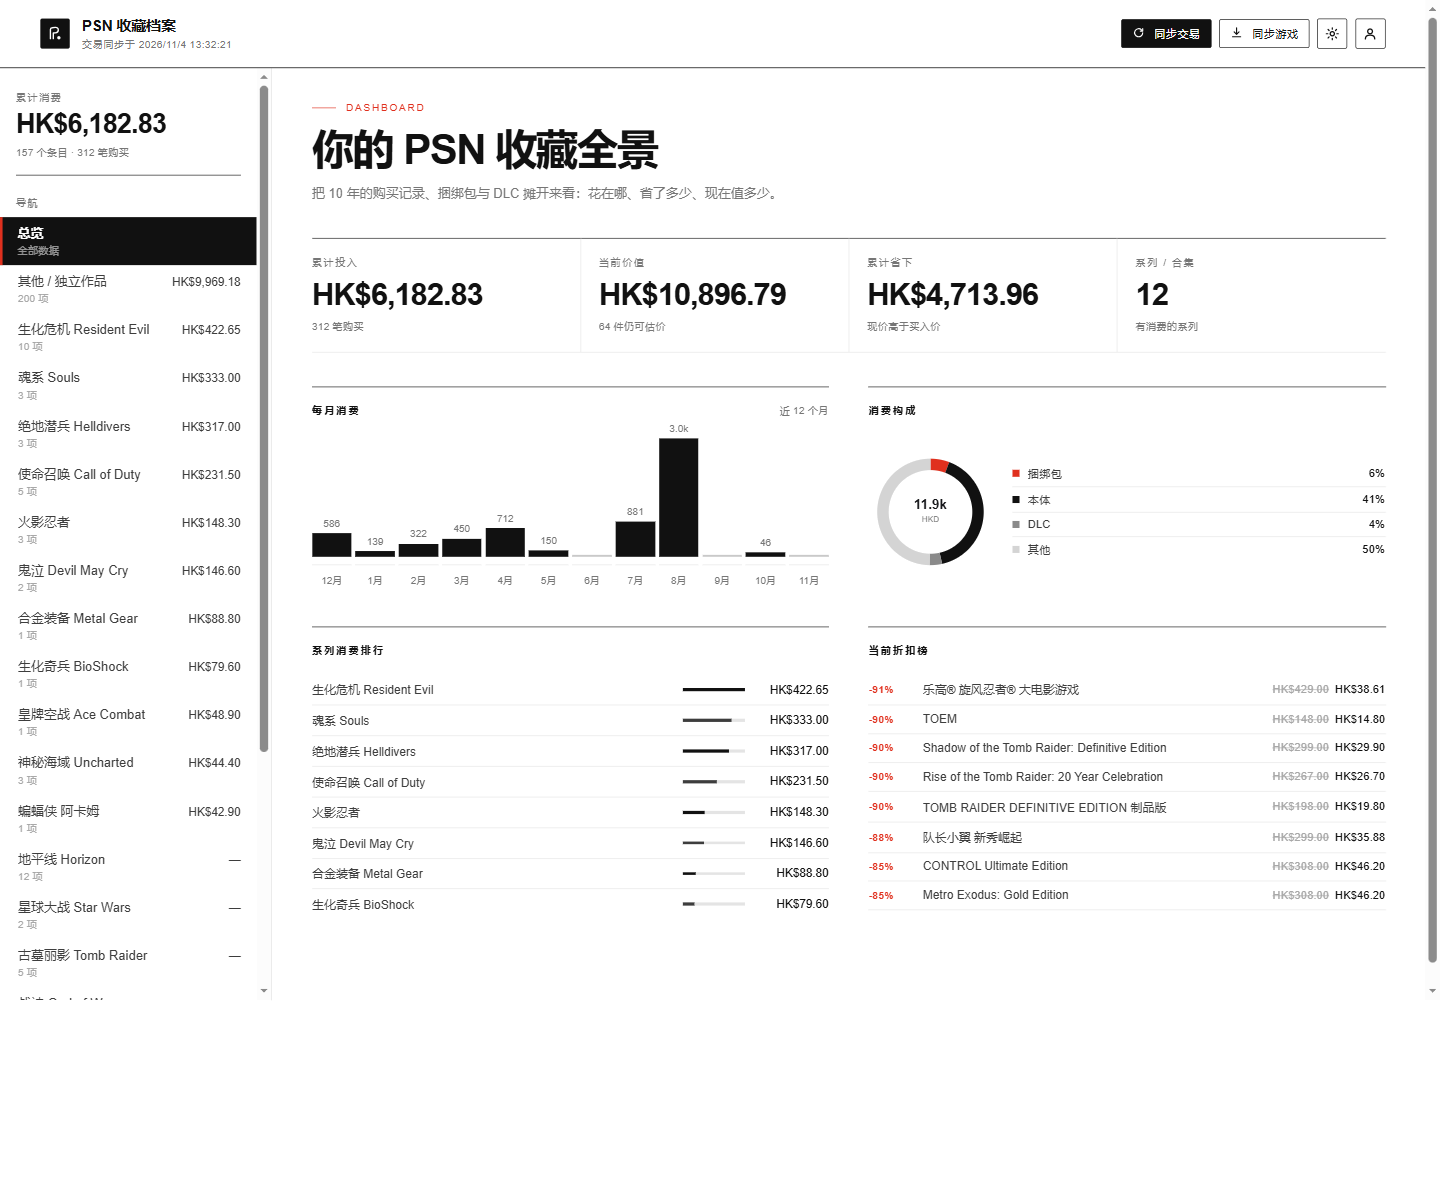
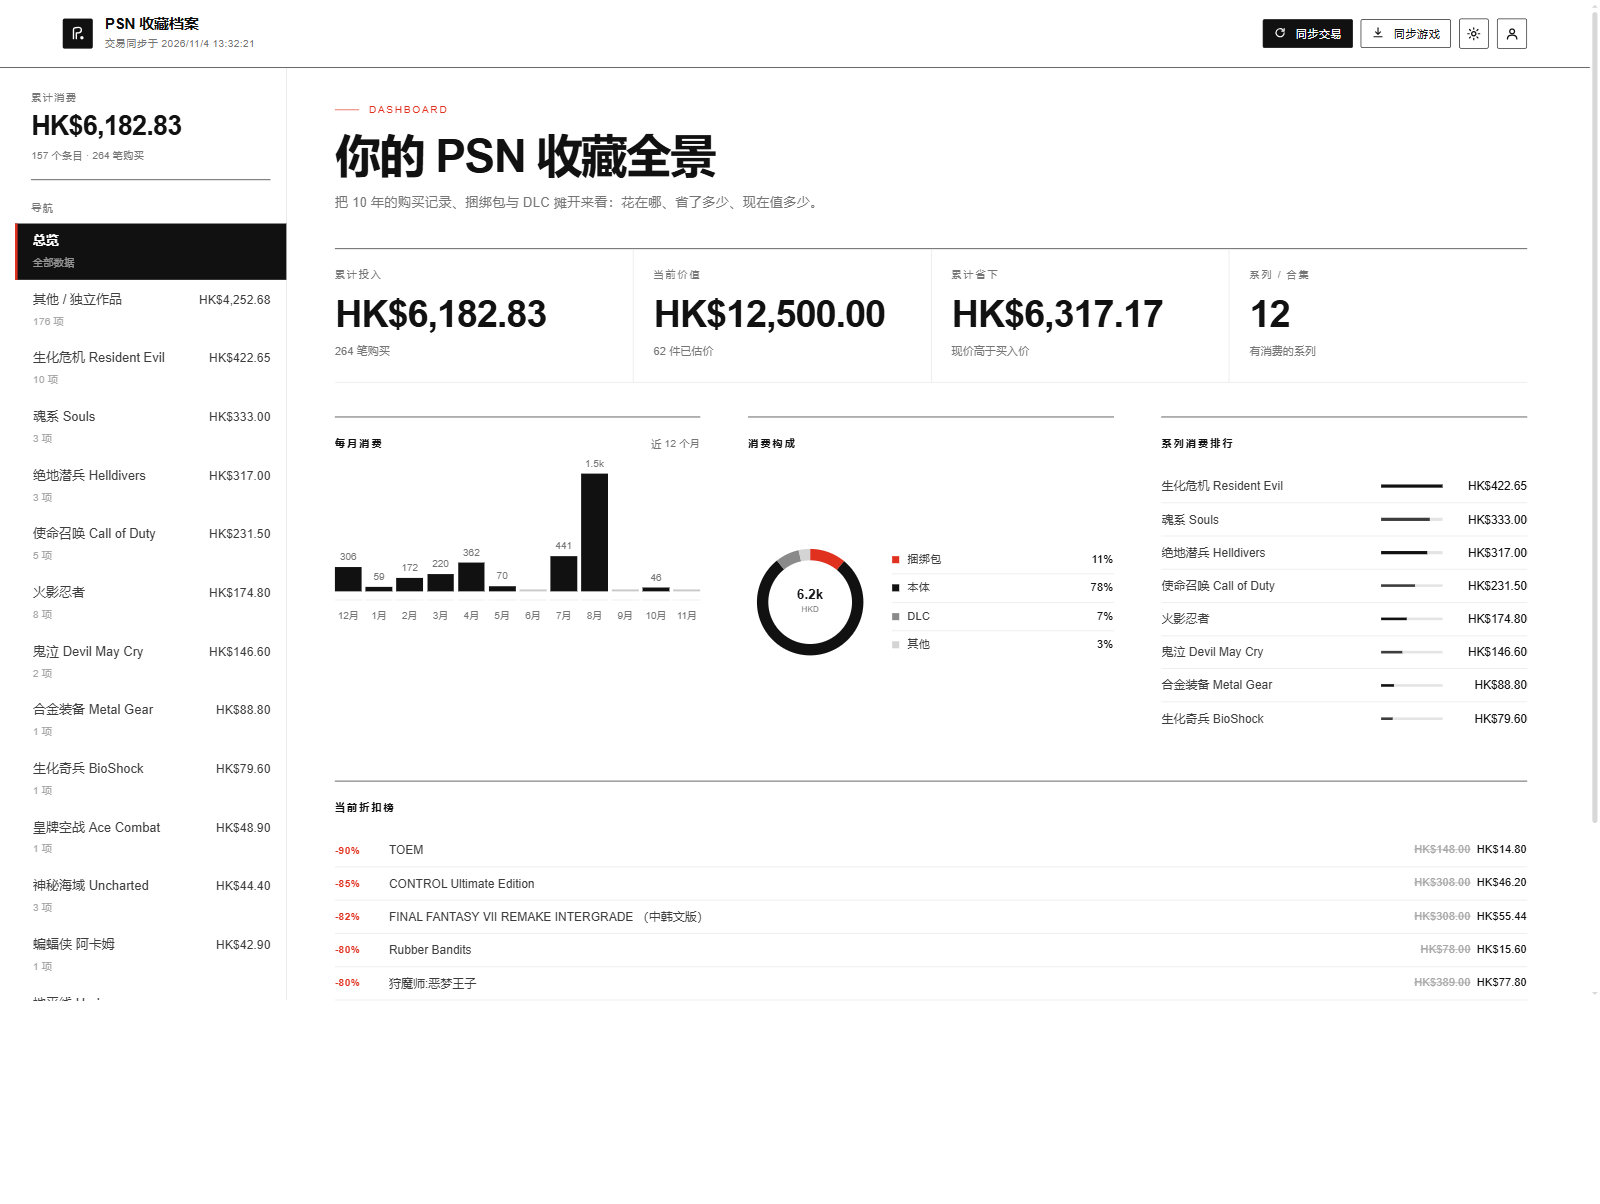
style: 排版精修，提升数字可读性与阅读节奏
- 基础字号 14px / 行高 1.55；KPI 数字 26-38px，等宽数字对齐
- 商品行封面 44→56px，行高与间距放宽；展开层封面 34→40px
- 收起左栏滚动条，全局滚动条改为细浅样式
- 分区标题、副标题、提示文字的字号/字重/字距统一
- 捆绑包内含项优先于命名空间成员；同名条目合并（×N）并补封面
- 焦点样式、hover 过渡等细节
- README 截图更新为最新版
- sw 升至 v23

diff --git a/web/app.js b/web/app.js
@@ -41,6 +41,27 @@ async function api(path, opts = {}) {
 const cur = () => STATE.settings?.currency || "HKD";
 const KIND_LABEL = { bundle: "捆绑包", game: "本体", dlc: "DLC", avatar: "化身", voucher: "凭证", subscription: "会员", wallet: "点卡", other: "其他" };
 
+// 名称 → 封面，用于给「捆绑包内含项」补图（那些只有名字，没有 productId）
+let IMG_INDEX = new Map();
+function buildImageIndex() {
+  const m = new Map();
+  for (const c of STATE.catalog || []) {
+    if (!c.image || !c.name) continue;
+    m.set(String(c.name).trim().toLowerCase(), c.image);
+  }
+  return m;
+}
+function imageForName(name) {
+  if (!name) return null;
+  const k = String(name).trim().toLowerCase();
+  if (IMG_INDEX.has(k)) return IMG_INDEX.get(k);
+  // 退一步：包含匹配
+  for (const [n, img] of IMG_INDEX) {
+    if (n.length > 6 && (n.includes(k) || k.includes(n))) return img;
+  }
+  return null;
+}
+
 /* ---------- 载入 ---------- */
 async function load() {
   try {
@@ -52,6 +73,7 @@ async function load() {
 }
 
 function render() {
+  IMG_INDEX = buildImageIndex();
   const total = (STATE.games || []).reduce((s, g) => s + (Number(g.purchasePrice) || 0), 0);
   $("total").textContent = fmt(total, cur());
   const txCount = (STATE.catalog || []).reduce((s, c) => s + (c.purchases || []).length, 0);
@@ -63,7 +85,6 @@ function render() {
   renderRail();
   renderDetail();
 }
-
 /* ---------- 左栏 ---------- */
 function renderRail() {
   const nav = $("seriesList");
@@ -601,10 +622,11 @@ function productRow(p, family = []) {
   if (p.grantedBy) sub.appendChild(el("span", "badge free", "随包附赠"));
   const dates = [...new Set((p.purchases || []).map((x) => x.date).filter(Boolean))].sort();
   sub.appendChild(el("span", null, dates.length ? (dates.length > 1 ? `${dates[0]} 起 · 共 ${dates.length} 次` : dates[0]) : p.spent > 0 ? "已购买" : "未购买 / 免费"));
+  // 捆绑包优先用商店的内含清单（更完整）；否则用同命名空间的成员
   const bundleItems = p.kind === "bundle" && p.bundle?.items?.length ? p.bundle.items : null;
-  const childCount = family.length || (bundleItems ? bundleItems.length : 0);
+  const famList = !bundleItems && family.length ? family : [];
+  const childCount = bundleItems ? bundleItems.length : famList.length;
   const canExpand = childCount > 0;
-  if (p.kind === "bundle" && p.bundle?.contents?.length && !family.length) sub.appendChild(el("span", null, `内含 ${p.bundle.contents.length} 项`));
   let expander = null;
   if (canExpand) {
     expander = el("span", "expander", `${childCount} 项`);
@@ -648,11 +670,11 @@ function productRow(p, family = []) {
     const boxEl = el("div", "bundle-box");
     boxEl.hidden = true;
 
-    if (family.length) {
+    if (famList.length) {
       const hd = el("div", "bb-head");
-      hd.innerHTML = `包含 <b>${family.length}</b> 项附加内容`;
+      hd.innerHTML = `包含 <b>${famList.length}</b> 项附加内容`;
       boxEl.appendChild(hd);
-      for (const f of family) {
+      for (const f of famList) {
         boxEl.appendChild(
           childItem(
             f.name,
@@ -669,13 +691,28 @@ function productRow(p, family = []) {
         内含单买合计 <b>${p.bundle.sumIndividualNow ? fmt(p.bundle.sumIndividualNow, cur()) : "—"}</b>
         ${p.bundle.savingsVsIndividual != null ? (p.bundle.savingsVsIndividual > 0 ? `买包省 <b>${fmt(p.bundle.savingsVsIndividual, cur())}</b>` : `单买省 <b>${fmt(-p.bundle.savingsVsIndividual, cur())}</b>`) : ""}`;
       boxEl.appendChild(hd);
+      // 商店描述里常有同名条目，合并成一行并标注份数，避免视觉噪音
+      const merged = [];
+      const seen = new Map();
       for (const it of bundleItems) {
+        const key = String(it.name || "").trim().toLowerCase();
+        if (seen.has(key)) {
+          const m = seen.get(key);
+          m.allocated = (m.allocated || 0) + (it.allocated || 0);
+          m.count += 1;
+        } else {
+          const copy = { ...it, count: 1 };
+          seen.set(key, copy);
+          merged.push(copy);
+        }
+      }
+      for (const it of merged) {
         boxEl.appendChild(
           childItem(
-            it.name,
+            it.count > 1 ? `${it.name} ×${it.count}` : it.name,
             it.allocated != null ? `分摊 ${fmt(it.allocated, cur())}` : "",
             it.currentPrice ? fmt(it.currentPrice, cur()) : "—",
-            null,
+            imageForName(it.name),
             null,
           ),
         );

diff --git a/web/styles.css b/web/styles.css
@@ -930,6 +930,162 @@ textarea { resize: vertical; }
   overflow: hidden;
 }
 
+/* ---------- 排版精修 ---------- */
+
+/* 全局滚动条：细、浅、不抢视线 */
+html {
+  scrollbar-width: thin;
+  scrollbar-color: #d8d8d8 transparent;
+}
+::-webkit-scrollbar { width: 10px; height: 10px; }
+::-webkit-scrollbar-track { background: transparent; }
+::-webkit-scrollbar-thumb {
+  background: #dcdcdc;
+  border: 3px solid var(--paper);
+  border-radius: 10px;
+}
+::-webkit-scrollbar-thumb:hover { background: #bdbdbd; }
+
+/* 左栏干脆不显示滚动条（仍可滚） */
+.rail {
+  scrollbar-width: none;
+  -ms-overflow-style: none;
+}
+.rail::-webkit-scrollbar { width: 0; height: 0; }
+
+/* 基础字号与行高 */
+html, body {
+  font-size: 14px;
+  line-height: 1.55;
+}
+
+/* 标题层级 */
+.dash-head h2,
+.detail-head h2 {
+  letter-spacing: -0.032em;
+}
+.dash-head .lede,
+.detail-head .meta {
+  line-height: 1.7;
+}
+.dash-head .lede { font-size: 13.5px; }
+
+.section-title {
+  font-size: 10.5px;
+  letter-spacing: 0.18em;
+  margin: 36px 0 0;
+  padding-bottom: 9px;
+}
+
+/* KPI */
+.kpi { padding: 18px 20px 22px; }
+.kpi .k {
+  font-size: 10.5px;
+  letter-spacing: 0.14em;
+}
+.kpi .v {
+  font-size: clamp(26px, 2.4vw, 38px);
+  letter-spacing: -0.03em;
+  margin-top: 12px;
+}
+.kpi .s {
+  font-size: 11px;
+  margin-top: 10px;
+  letter-spacing: 0.01em;
+}
+
+/* 左栏导航 */
+.rail nav { gap: 1px; }
+.series-item {
+  padding: 9px 16px;
+  gap: 3px 10px;
+}
+.series-item .nm { font-size: 13px; line-height: 1.35; }
+.series-item .amt { font-size: 12.5px; }
+.series-item .cnt { font-size: 10.5px; margin-top: 1px; }
+
+/* 商品行：封面放大，行距放宽 */
+.prow {
+  grid-template-columns: 56px minmax(0, 1fr) auto;
+  gap: 16px;
+  padding: 14px 2px;
+}
+.prow:hover { background: #fbfbfb; }
+
+.thumb {
+  width: 56px;
+  height: 56px;
+  border-radius: 5px;
+  font-size: 18px;
+}
+
+.pname {
+  font-size: 14px;
+  font-weight: 600;
+  letter-spacing: -0.011em;
+  line-height: 1.4;
+}
+.psub {
+  font-size: 11.5px;
+  margin-top: 6px;
+  gap: 9px;
+  line-height: 1.5;
+}
+
+.pprice {
+  gap: 4px;
+  min-width: 108px;
+}
+.pprice .paid {
+  font-size: 15px;
+  font-weight: 650;
+  letter-spacing: -0.02em;
+  font-variant-numeric: tabular-nums;
+}
+.pprice .now {
+  font-size: 11.5px;
+  font-variant-numeric: tabular-nums;
+}
+.pprice .delta { font-size: 11.5px; letter-spacing: 0.01em; }
+
+/* 展开层：也放大封面，行距更舒服 */
+.bitem {
+  grid-template-columns: 40px minmax(0, 1fr) auto 84px;
+  gap: 12px;
+  padding: 9px 0;
+  font-size: 12px;
+}
+.bthumb {
+  width: 40px;
+  height: 40px;
+  border-radius: 4px;
+  font-size: 12px;
+}
+.bitem .bn { line-height: 1.45; }
+
+/* 游戏封面墙 */
+.game-grid {
+  grid-template-columns: repeat(auto-fill, minmax(122px, 1fr));
+  gap: 18px;
+}
+.gname { font-size: 11px; line-height: 1.4; margin-top: 8px; }
+
+/* 图表间距 */
+.chart-grid { row-gap: 38px; }
+.chart { padding: 18px 0 8px; }
+
+/* 提示文字 */
+.hint { font-size: 13px; line-height: 1.75; }
+
+/* 键盘可达性 */
+button:focus-visible,
+.series-item:focus-visible,
+.prow:focus-visible {
+  outline: 2px solid var(--accent);
+  outline-offset: 2px;
+}
+button { transition: background 0.12s, color 0.12s, border-color 0.12s; }
+
 /* ---------- 响应式 ---------- */
 @media (max-width: 1080px) {
   :root { --gutter: 28px; --rail-w: 236px; }
@@ -999,17 +1155,17 @@ textarea { resize: vertical; }
 
   .donut { width: 104px; height: 104px; }
 
-  .prow { grid-template-columns: 40px minmax(0, 1fr) auto; gap: 10px; padding: 10px 0; }
-  .thumb { width: 40px; height: 40px; }
-  .pname { font-size: 12.5px; }
-  .psub { gap: 7px; font-size: 10.5px; }
-  .pprice { min-width: 82px; }
-  .pprice .paid { font-size: 13px; }
+  .prow { grid-template-columns: 46px minmax(0, 1fr) auto; gap: 12px; padding: 12px 0; }
+  .thumb { width: 46px; height: 46px; }
+  .pname { font-size: 13px; }
+  .psub { gap: 7px; font-size: 11px; }
+  .pprice { min-width: 92px; }
+  .pprice .paid { font-size: 14px; }
 
   .bundle-box { margin-left: 0; padding-left: 10px; }
-  .bitem { grid-template-columns: 28px minmax(0, 1fr) 64px; gap: 8px; }
+  .bitem { grid-template-columns: 34px minmax(0, 1fr) 64px; gap: 10px; padding: 8px 0; }
   .bitem .ba { display: none; }
-  .bthumb { width: 28px; height: 28px; }
+  .bthumb { width: 34px; height: 34px; }
 
   .disc-row { grid-template-columns: 40px minmax(0, 1fr) auto; }
   .rank-row { grid-template-columns: minmax(0, 1fr) 44px 68px; }

diff --git a/web/sw.js b/web/sw.js
@@ -3,7 +3,7 @@
 //  - 导航请求（打开页面）：网络优先，失败才回退缓存 → 保证能拿到最新版本
 //  - 静态资源：先用缓存秒开，同时后台拉新并更新缓存（stale-while-revalidate）
 //  - /api/ 永远走网络，不缓存
-const CACHE = "psn-spend-v22-swiss";
+const CACHE = "psn-spend-v23-swiss";
 const SHELL = ["/", "/index.html", "/styles.css", "/app.js", "/manifest.webmanifest"];
 
 self.addEventListener("install", (e) => {
